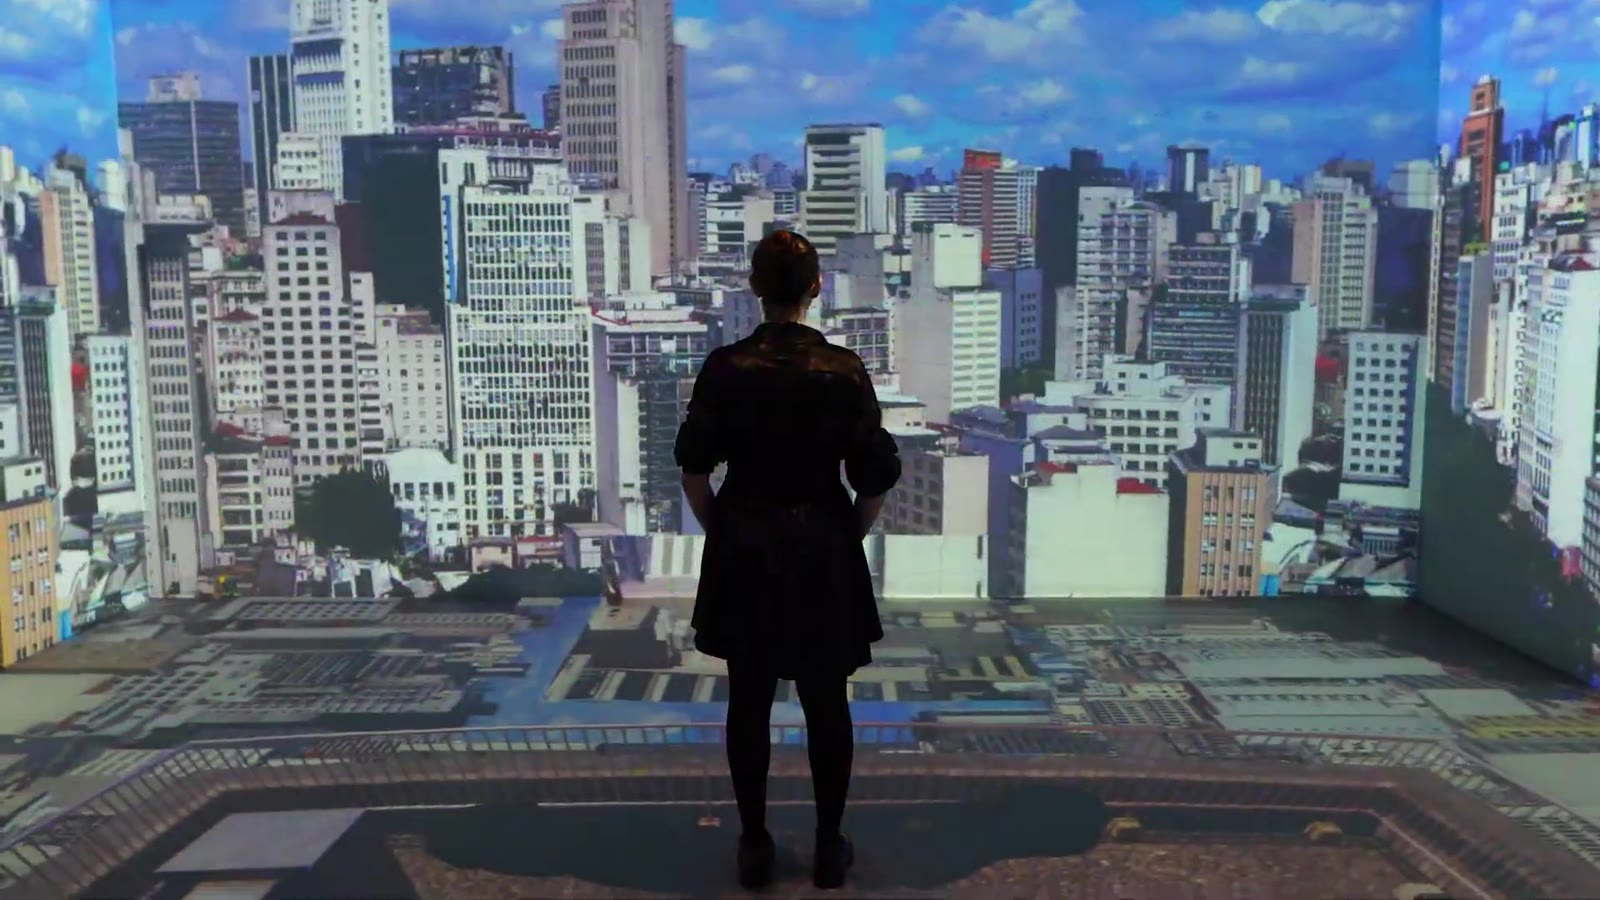
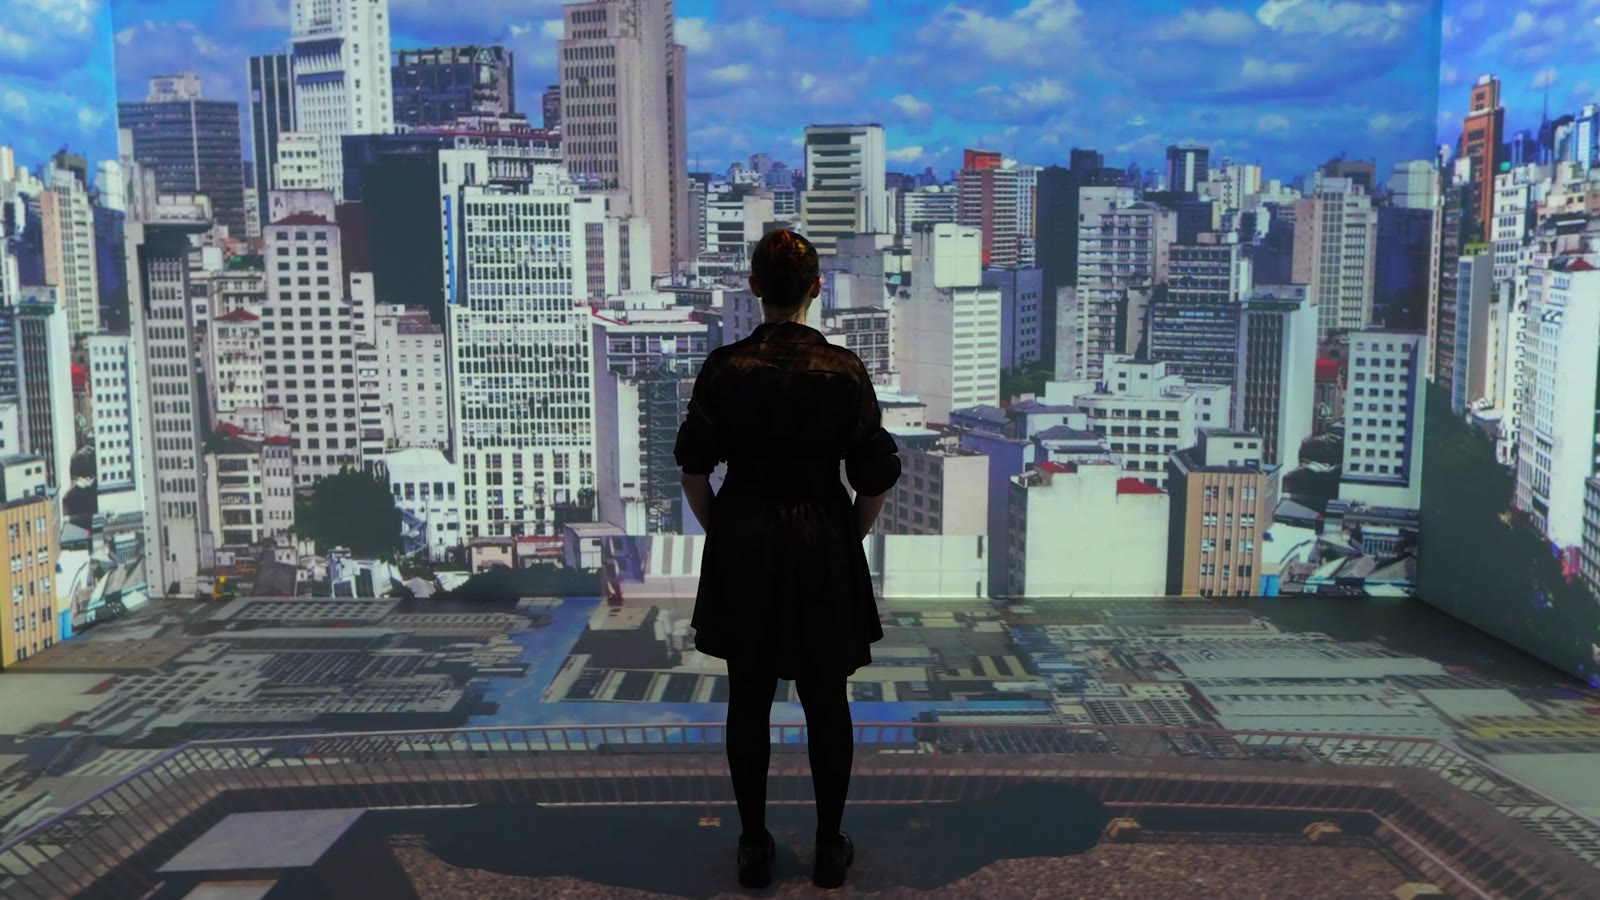
Sao Paulo 3024: video proprio da AYA no lugar do YouTube, credito AYA Studio
O original sem legendas do Drive, em 1080p a 4 Mbps, servido do R2
(video.heretica.xyz/felipesztutman/sp3024-sala.mp4). Player nativo com
preload none e capa do quadro 13 tirada do original. O credito anterior
(Marra Comunicacao) estava errado: a Marra so publicou no YouTube.

Claude-Session: https://claude.ai/code/session_01SXMTavQv2Ki7fua9QCc2xc

diff --git a/src/pages/en/obras/sao-paulo-3024.md b/src/pages/en/obras/sao-paulo-3024.md
@@ -23,7 +23,7 @@ press:
   - { source: "Farol Santander", url: "https://www.farolsantander.com.br/en/sp/exhibition/sao-paulo-3024-immersive-digital-art/", title: "São Paulo 3024: Immersive Digital Art" }
   - { source: "MARRA Comunicação", url: "https://marracomunica.com.br/nova-exposicao-do-farol-santander-mostra-como-sera-sao-paulo-daqui-mil-anos/", title: "Nova exposição do Farol Santander mostra como será São Paulo daqui mil anos" }
   - { source: "São Paulo Secreto", url: "https://saopaulosecreto.com/sao-paulo-3024-farol-santander/", title: "São Paulo 3024 no Farol Santander" }
-youtube: { id: "1SX9RxItIdY", poster: "/img/obras/sao-paulo-3024/video-capa.jpg", caption: "The immersive room at Farol Santander, with Felipe Sztutman and Antonio Curti. Video: Marra Comunicação, 2024 (in Portuguese)." }
+filme: { src: "https://video.heretica.xyz/felipesztutman/sp3024-sala.mp4", poster: "/img/obras/sao-paulo-3024/video-capa.jpg", caption: "The immersive room at Farol Santander, with Felipe Sztutman and Antonio Curti. Video: AYA Studio, 2024 (in Portuguese)." }
 ---
 
 In 2024, I designed the entire 23rd floor of Farol Santander for a 16-minute journey to São Paulo's future. Antonio Curti's curation questioned what the city would be like a thousand years ahead, I wanted to answer with a technical question: if we used language models to imagine this future, would we be simulating realities or influencing the code of what's yet to exist? I conceived the experience artistically and technically, working with LLMs and LoRA not as image generation tools, but as the philosophical foundation of the work. The journey passes through seven acts, floating islands in the sky, underground civilizations, fragmented remnants of the present, and the audience crosses luminous portals between coexisting worlds, not knowing if they're seeing possible futures or multiple simulations of the same present.

diff --git a/src/pages/obras/sao-paulo-3024.md b/src/pages/obras/sao-paulo-3024.md
@@ -10,7 +10,7 @@ credits:
   - { role: "Estúdio", name: "AYA Studio" }
   - { role: "Produção", name: "Arte3" }
   - { role: "Patrocínio", name: "Santander Brasil" }
-youtube: { id: "1SX9RxItIdY", poster: "/img/obras/sao-paulo-3024/video-capa.jpg", caption: "A sala imersiva no Farol Santander, com Felipe Sztutman e Antonio Curti. Vídeo: Marra Comunicação, 2024." }
+filme: { src: "https://video.heretica.xyz/felipesztutman/sp3024-sala.mp4", poster: "/img/obras/sao-paulo-3024/video-capa.jpg", caption: "A sala imersiva no Farol Santander, com Felipe Sztutman e Antonio Curti. Vídeo: AYA Studio, 2024." }
 press:
   - { source: "Farol Santander", url: "https://www.farolsantander.com.br/en/sp/exhibition/sao-paulo-3024-immersive-digital-art/", title: "São Paulo 3024: Immersive Digital Art" }
   - { source: "MARRA Comunicação", url: "https://marracomunica.com.br/nova-exposicao-do-farol-santander-mostra-como-sera-sao-paulo-daqui-mil-anos/", title: "Nova exposição do Farol Santander mostra como será São Paulo daqui mil anos" }
